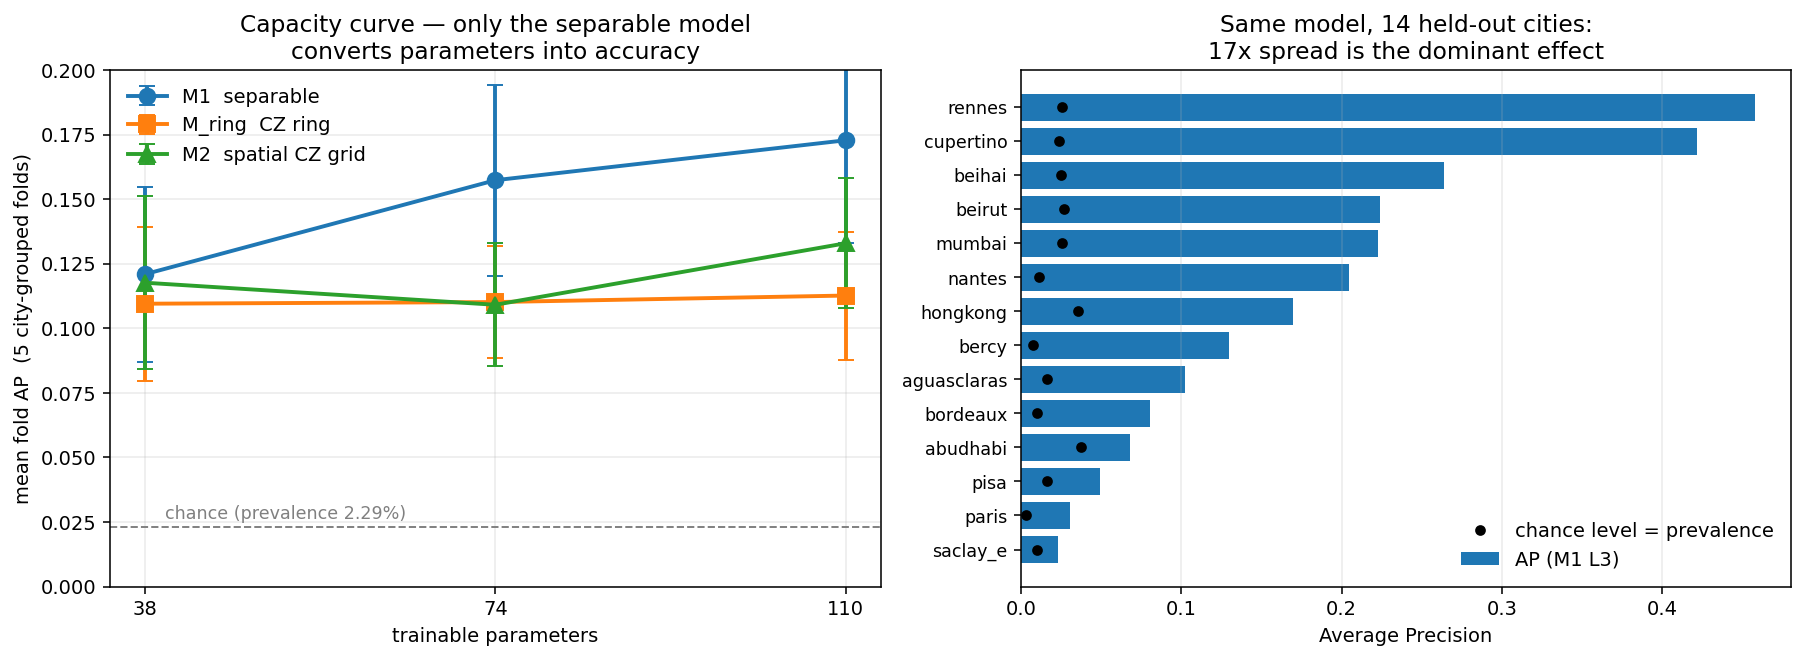
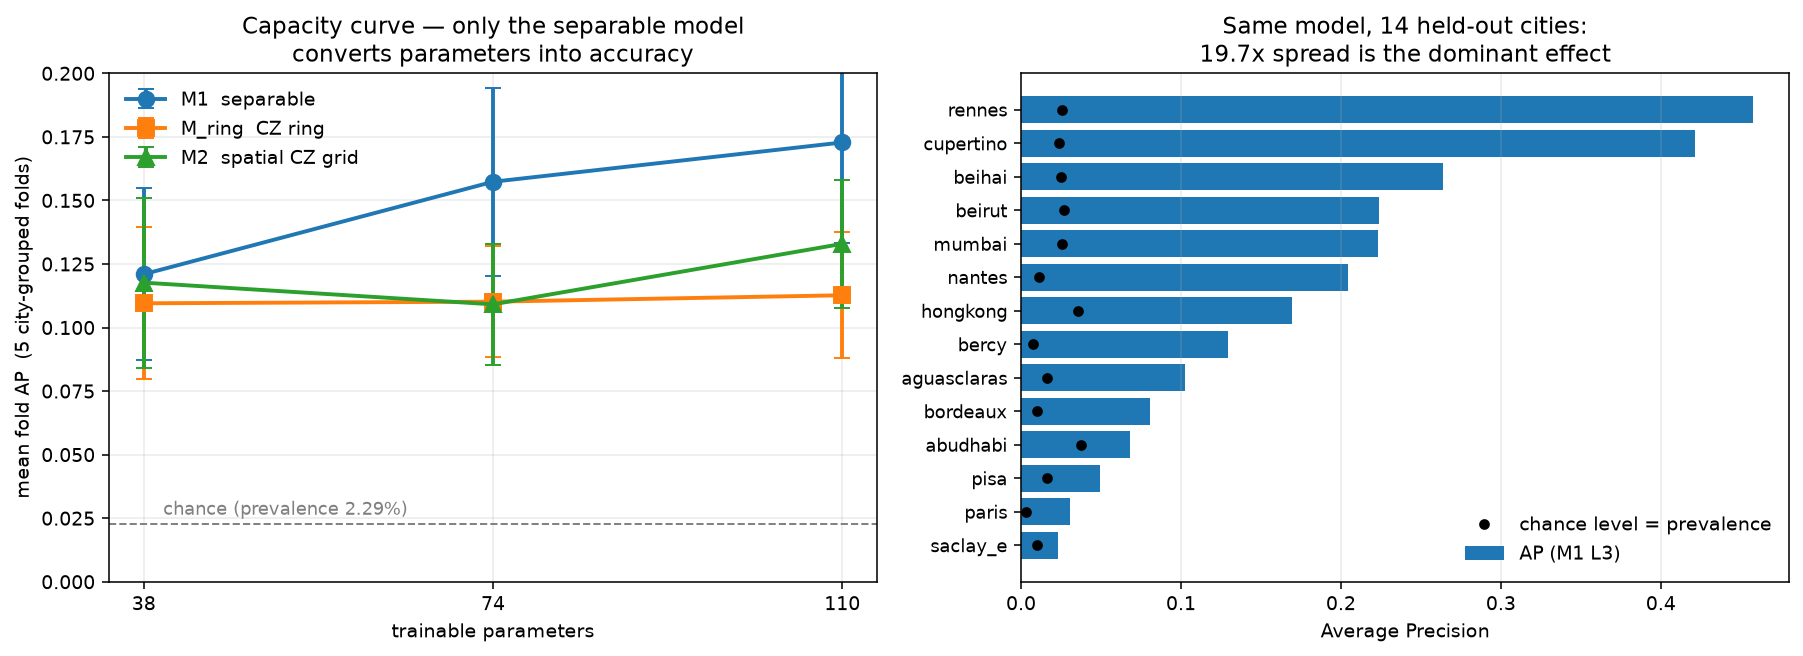
figures: 24-city split + per-city held-out model comparison
The per-city evidence existed only as tables. Two figures make it readable at a
glance, both generated from the committed fold records (no dataset, no GPU).

- results/p3_matrix/city_split.png: 14 labelled cities coloured by the fold that
  holds them out, 10 hidden-label cities greyed out with the reason no metric
  exists for them. Answers "where are the 10 cities' numbers?" in one look.
- results/p3_matrix/heldout_city_comparison.png: left panel, one row per
  held-out city with all three circuits on it; right panel, the paired per-city
  difference against M1 with mean lines and win counts. Shows both that M1 leads
  (11/14 vs M2, 14/14 vs M_ring) and that the city spread is far larger than any
  architecture gap.
- train/plot_heldout_comparison.py generates both; embedded in
  hidden_city_evaluation.md, results_heldout_city_comparison.md and
  RESULTS_SUMMARY.md, listed in the poster figure table.

Also corrects the per-city spread claim: RESULTS_SUMMARY and the p3_summary
title said 0.026 / 0.446 / "17x", which matches no cell in the committed matrix.
The reproducible values are 0.0232 (saclay_e) / 0.4575 (rennes) = 19.7x, now
read from the data by both the doc and the plot title instead of hardcoded.

diff --git a/train/plot_heldout_comparison.py b/train/plot_heldout_comparison.py
@@ -1,0 +1,197 @@
+"""
+train/plot_heldout_comparison.py — the two figures that answer "which cities are
+these numbers on, and is the model comparison fair?"
+
+  city_split.png              the 24-city split: 14 labelled cities that every
+                              metric comes from (coloured by CV fold), 10
+                              hidden-label cities that can only be predicted.
+  heldout_city_comparison.png M1 vs M2 vs M_ring on each of the 14 held-out
+                              cities, plus the paired per-city differences.
+
+Both are built from committed artifacts (`results/runs/p3_topology/*.json` and
+`data/splits.py`) — no dataset, no retraining. Numbers match
+`docs/results_heldout_city_comparison.md`, which the same fold records generate.
+
+    python train/plot_heldout_comparison.py [--depth 3] [--metric AP]
+"""
+import os, sys, json, glob, argparse, collections
+import numpy as np
+import matplotlib
+matplotlib.use("Agg")
+import matplotlib.pyplot as plt
+from matplotlib.patches import FancyBboxPatch
+
+HERE = os.path.dirname(os.path.abspath(__file__))
+ROOT = os.path.dirname(HERE)
+sys.path.insert(0, os.path.join(ROOT, "data"))
+
+from splits import TRAIN_CITIES, TEST_CITIES
+
+SWEEP = os.path.join(ROOT, "results", "runs", "p3_topology")
+OUT = os.path.join(ROOT, "results", "p3_matrix")
+# colours kept identical to plot_p3.py so the figures read as one set
+KINDS = [("m1", "M1  separable", "#1f77b4", "o"),
+         ("m2", "M2  spatial CZ grid", "#2ca02c", "^"),
+         ("mring", "M_ring  CZ ring", "#ff7f0e", "s")]
+FOLD_COLORS = ["#4c78a8", "#72b7b2", "#54a24b", "#eeca3b", "#e45756"]
+PREVALENCE = 0.0229
+
+
+def load(sweep=SWEEP):
+    """{(kind, depth): {city: metrics}} and {city: fold}."""
+    cells, fold_of = collections.defaultdict(dict), {}
+    for p in sorted(glob.glob(os.path.join(sweep, "*_fold*.json"))):
+        d = json.load(open(p))
+        for c, m in d["per_city"].items():
+            cells[(d["kind"], d["depth"])][c] = m
+            fold_of.setdefault(c, d["fold"])
+            if fold_of[c] != d["fold"]:
+                raise ValueError(f"{c}: fold assignment differs between cells — "
+                                 "the comparison would not be paired")
+    return cells, fold_of
+
+
+# --------------------------------------------------------------------------- #
+def fig_city_split(fold_of, path):
+    """Why there is no metric for 10 of the 24 cities."""
+    fig, ax = plt.subplots(figsize=(13, 4.6))
+    ax.set_xlim(0, 10.6); ax.set_ylim(-0.45, 6.2); ax.axis("off")
+
+    def chip(x, y, text, face, edge, fg="black", sub=None):
+        ax.add_patch(FancyBboxPatch((x, y), 1.75, 0.62, boxstyle="round,pad=0.02,rounding_size=0.09",
+                                    fc=face, ec=edge, lw=1.4))
+        ax.text(x + 0.875, y + (0.36 if sub else 0.31), text, ha="center",
+                va="center", fontsize=9.5, color=fg)
+        if sub:
+            ax.text(x + 0.875, y + 0.15, sub, ha="center", va="center",
+                    fontsize=7.2, color=fg, alpha=.85)
+
+    ax.text(0, 5.85, "OSCD: 24 cities", fontsize=14, fontweight="bold")
+
+    # --- labelled -----------------------------------------------------------
+    ax.text(0, 5.35, "14 labelled cities  —  every reported metric comes from here",
+            fontsize=11.5, fontweight="bold", color="#1a1a1a")
+    ax.text(0, 5.05, "5-fold city-grouped CV: each city is held out IN FULL exactly once "
+                     "and scored by a model trained without it.",
+            fontsize=9.2, color="#444")
+    for i, c in enumerate(TRAIN_CITIES):
+        r, k = divmod(i, 5)
+        f = fold_of.get(c, 0)
+        chip(0.05 + k * 1.95, 4.15 - r * 0.82, c, FOLD_COLORS[f] + "40",
+             FOLD_COLORS[f], sub=f"held out in fold {f}")
+
+    # --- hidden -------------------------------------------------------------
+    ax.text(0, 1.72, "10 hidden-label cities  —  no ground truth, so NO metric can be computed",
+            fontsize=11.5, fontweight="bold", color="#8a1a1a")
+    ax.text(0, 1.42, "Imagery only. The deliverable is one predicted {0,255} mask per city "
+                     "(results/submission/masks/).",
+            fontsize=9.2, color="#444")
+    for i, c in enumerate(TEST_CITIES):
+        r, k = divmod(i, 5)
+        chip(0.05 + k * 1.95, 0.52 - r * 0.82, c, "#dddddd", "#999999", fg="#333")
+
+    fig.savefig(path, dpi=140, bbox_inches="tight", facecolor="white")
+    plt.close(fig)
+    return path
+
+
+# --------------------------------------------------------------------------- #
+def fig_comparison(cells, fold_of, depth, metric, path):
+    """Per-city model comparison + paired differences, on held-out cities only."""
+    present = [k for k in KINDS if (k[0], depth) in cells]
+    if not present:
+        sys.exit(f"no cells at depth {depth}")
+    n_params = json.load(open(glob.glob(os.path.join(
+        SWEEP, f"{present[0][0]}_L{depth}_fold*.json"))[0]))["n_params"]
+
+    base = cells[("m1", depth)]
+    order = sorted(TRAIN_CITIES, key=lambda c: base[c][metric])   # worst at bottom
+    y = np.arange(len(order))
+
+    fig, ax = plt.subplots(1, 2, figsize=(13.6, 5.6),
+                           gridspec_kw={"width_ratios": [1.25, 1]})
+
+    # --- panel A: three circuits on the same held-out city -------------------
+    for i, c in enumerate(order):
+        vals = [cells[(k, depth)][c][metric] for k, *_ in present]
+        ax[0].plot([min(vals), max(vals)], [i, i], color="#bbbbbb", lw=1.2, zorder=1)
+    for kind, name, col, mk in present:
+        v = [cells[(kind, depth)][c][metric] for c in order]
+        ax[0].scatter(v, y, color=col, marker=mk, s=62, zorder=3, label=name,
+                      edgecolor="white", lw=.7)
+    prev = [base[c]["prevalence"] for c in order]
+    ax[0].scatter(prev, y, marker="|", color="black", s=70, zorder=4,
+                  label="chance level = city prevalence")
+    ax[0].set_yticks(y); ax[0].set_yticklabels(order, fontsize=9.5)
+    ax[0].set_xlabel(f"{metric} on the held-out city")
+    ax[0].set_title(f"Same held-out city, three circuits  ({n_params} parameters)\n"
+                    "every point is a city the model never trained on",
+                    fontsize=11.5)
+    ax[0].legend(frameon=False, fontsize=9, loc="lower right")
+    ax[0].grid(axis="x", alpha=.25)
+    ax[0].grid(axis="y", alpha=.12, ls="-")
+    ax[0].set_axisbelow(True)
+    ax[0].set_xlim(left=0)
+
+    lo, hi = base[order[0]][metric], base[order[-1]][metric]
+    ax[0].annotate(f"city spread for one model:\n{lo:.3f} … {hi:.3f}  ({hi/max(lo,1e-9):.1f}×)",
+                   xy=(hi, len(order) - 1), xytext=(hi * 0.42, len(order) - 3.4),
+                   fontsize=9, color="#333",
+                   arrowprops=dict(arrowstyle="->", color="#666", lw=1))
+
+    # --- panel B: paired differences vs M1 ----------------------------------
+    ax[1].axvline(0, color="black", lw=1.1, zorder=2)
+    lines, biggest_gap = [], 0.0
+    for kind, name, col, mk in present:
+        if kind == "m1":
+            continue
+        d = np.array([base[c][metric] - cells[(kind, depth)][c][metric] for c in order])
+        biggest_gap = max(biggest_gap, float(np.abs(d).max()))
+        ax[1].scatter(d, y, color=col, marker=mk, s=62, zorder=3,
+                      edgecolor="white", lw=.7, label=f"M1 − {name.split('  ')[0]}")
+        ax[1].axvline(d.mean(), color=col, ls="--", lw=1.2, alpha=.8, zorder=1)
+        lines.append(f"M1 − {name.split('  ')[0]}:  {int((d > 0).sum())}/{len(d)} cities, "
+                     f"mean Δ {d.mean():+.3f}")
+    ax[1].set_yticks(y); ax[1].set_yticklabels([])
+    ax[1].set_xlabel(f"paired per-city difference in {metric}   "
+                     "(right of 0 = M1 better)")
+    ax[1].set_title("Paired differences — identical folds, initialisation\n"
+                    "and patch stream, so the entangler is the only difference",
+                    fontsize=11.5)
+    ax[1].legend(frameon=False, fontsize=9, loc="lower right")
+    ax[1].grid(axis="x", alpha=.25)
+    ax[1].grid(axis="y", alpha=.12, ls="-")   # same row order as panel A
+    ax[1].set_axisbelow(True)
+    ax[1].text(0.02, 0.985, "\n".join(lines), transform=ax[1].transAxes, va="top",
+               fontsize=9.2, bbox=dict(fc="white", ec="#cccccc", boxstyle="round,pad=0.4"))
+
+    ax[1].text(0.5, -0.155, f"city spread ({hi - lo:.3f}) dwarfs every per-city "
+                            f"architecture gap (largest {biggest_gap:.3f})",
+               transform=ax[1].transAxes, ha="center", fontsize=9.2, color="#8a1a1a")
+
+    fig.suptitle("Model comparison on cities the models never saw — "
+                 "5-fold city-grouped CV over the 14 labelled cities",
+                 fontsize=13, fontweight="bold", y=1.02)
+    fig.savefig(path, dpi=140, bbox_inches="tight", facecolor="white")
+    plt.close(fig)
+    return path
+
+
+# --------------------------------------------------------------------------- #
+def main():
+    ap = argparse.ArgumentParser()
+    ap.add_argument("--depth", type=int, default=3)
+    ap.add_argument("--metric", default="AP")
+    ap.add_argument("--outdir", default=OUT)
+    a = ap.parse_args()
+
+    cells, fold_of = load()
+    os.makedirs(a.outdir, exist_ok=True)
+    p1 = fig_city_split(fold_of, os.path.join(a.outdir, "city_split.png"))
+    p2 = fig_comparison(cells, fold_of, a.depth, a.metric,
+                        os.path.join(a.outdir, "heldout_city_comparison.png"))
+    print(f"-> {p1}\n-> {p2}")
+
+
+if __name__ == "__main__":
+    main()

diff --git a/train/compare_heldout_cities.py b/train/compare_heldout_cities.py
@@ -118,6 +118,10 @@ def write_report(cells, folds, depths, metric, path):
     A("The comparison is paired — identical fold assignment, identical "
       "initialisation and identical training patch stream across models, so the "
       "circuit is the only difference and per-city differences are matched pairs.\n")
+    A("![the 24-city split](../results/p3_matrix/city_split.png)\n")
+    A("![held-out city comparison](../results/p3_matrix/heldout_city_comparison.png)\n")
+    A("Both figures come from the same fold records as the tables below "
+      "(`python train/plot_heldout_comparison.py`).\n")
     A(f"Primary metric here: **{metric}**. Chance level for AP is the city's own "
       "prevalence (~2.3 % overall), so AP values must be read against that column.\n")
 

diff --git a/train/plot_p3.py b/train/plot_p3.py
@@ -48,7 +48,8 @@ ax[1].barh(y, apv, color="#1f77b4", label="AP (M1 L3)")
 ax[1].plot(prv, y, "k.", ms=9, label="chance level = prevalence")
 ax[1].set_yticks(y); ax[1].set_yticklabels(order, fontsize=9)
 ax[1].set_xlabel("Average Precision")
-ax[1].set_title("Same model, 14 held-out cities:\n17x spread is the dominant effect")
+ax[1].set_title(f"Same model, 14 held-out cities:\n"
+                f"{max(apv) / max(min(apv), 1e-9):.1f}x spread is the dominant effect")
 ax[1].legend(frameon=False, loc="lower right"); ax[1].grid(alpha=.25, axis="x")
 
 fig.tight_layout()

diff --git a/docs/hidden_city_evaluation.md b/docs/hidden_city_evaluation.md
@@ -11,6 +11,8 @@ cannot do about it, and what each option needs.
 
 ## 1. The split, precisely
 
+![the 24-city split](../results/p3_matrix/city_split.png)
+
 | | cities | labels | role here |
 |---|---|---|---|
 | train | 14 | yes | transform fitting, training, 5-fold city-grouped CV, threshold choice |
@@ -42,12 +44,19 @@ number — the same kind of cross-city generalization test the 10 hidden cities
 would provide, with 14 held-out cities instead of 10, and with matched pairing
 across architectures (same folds, same init, same patch stream).
 
+![held-out city comparison](../results/p3_matrix/heldout_city_comparison.png)
+
+*Left: the same held-out city scored by all three circuits. Right: the paired
+per-city difference against M1 — dashed lines are the means. Every point is a
+city that model never trained on.*
+
 [`results_heldout_city_comparison.md`](results_heldout_city_comparison.md) is
 that comparison written out per city — M1 vs M2 vs M_ring, one row per held-out
-city, with paired differences and win counts. Regenerate with:
+city, with paired differences and win counts. Regenerate both with:
 
 ```bash
-python train/compare_heldout_cities.py            # no dataset, no GPU, ~1 s
+python train/compare_heldout_cities.py            # tables,  no dataset, no GPU, ~1 s
+python train/plot_heldout_comparison.py           # figures, no dataset, no GPU, ~2 s
 ```
 
 At L3 (110 params) it reports M1 ahead on macro AP 0.1748 vs 0.1358 (M2) and

diff --git a/docs/RESULTS_SUMMARY.md b/docs/RESULTS_SUMMARY.md
@@ -113,11 +113,20 @@ as a prior here.)
 
 ### (c) Which city you test on matters far more than which circuit you use
 
-Same model, 14 held-out cities: AP ranges **0.026 (saclay_e) to 0.446 (rennes)** —
-a **17× spread**, an order of magnitude larger than any architecture difference.
-This is the same cross-city difficulty the EDA found at the very start (land-cover
+![held-out city comparison](../results/p3_matrix/heldout_city_comparison.png)
+
+Same model (M1 L3), 14 held-out cities: AP ranges **0.0232 (saclay_e) to 0.4575
+(rennes)** — a **19.7× spread**, an order of magnitude larger than any
+architecture difference (largest per-city gap 0.150, mean 0.039–0.052). This is
+the same cross-city difficulty the EDA found at the very start (land-cover
 features separating urban from natural change scored 0.59 under random CV but
 0.53 — chance — under city-grouped CV).
+
+> Earlier revisions of this file quoted 0.026 / 0.446 and "17×". Those values do
+> not correspond to any cell in the committed matrix; the numbers above are read
+> straight from `results/runs/p3_topology/m1_L3_fold*.json` by
+> `train/compare_heldout_cities.py` and match
+> [`results_heldout_city_comparison.md`](results_heldout_city_comparison.md).
 
 **Practical implication:** the binding constraint is domain shift between cities,
 not the quantum circuit design.

diff --git a/README.md b/README.md
@@ -229,8 +229,12 @@ raw T1/T2 → robust per-band norm → per-image median-corrected |dB|
   10 test cities have no ground truth and are predict-only. Per-city,
   model-vs-model tables are in
   [`docs/results_heldout_city_comparison.md`](docs/results_heldout_city_comparison.md)
-  (regenerate: `python train/compare_heldout_cities.py`); scoring the 10 hidden
-  cities if their labels are released is `train/score_hidden_cities.py`.
+  (regenerate: `python train/compare_heldout_cities.py` for the tables,
+  `python train/plot_heldout_comparison.py` for
+  [`city_split.png`](results/p3_matrix/city_split.png) and
+  [`heldout_city_comparison.png`](results/p3_matrix/heldout_city_comparison.png));
+  scoring the 10 hidden cities if their labels are released is
+  `train/score_hidden_cities.py`.
 - **Model ladder** ([`docs/model_ladder.md`](docs/model_ladder.md)): M0 pixel
   baseline → M1/M2/M3 all 38-param (one factor each) → M4 re-uploading, with
   parameter-matched classical twins and the ablation matrix. Main model M3 (9-to-9

diff --git a/docs/results_heldout_city_comparison.md b/docs/results_heldout_city_comparison.md
@@ -8,6 +8,12 @@ The 10 OSCD **test** cities have no ground truth (`data/splits.py` — `TEST_CIT
 
 The comparison is paired — identical fold assignment, identical initialisation and identical training patch stream across models, so the circuit is the only difference and per-city differences are matched pairs.
 
+![the 24-city split](../results/p3_matrix/city_split.png)
+
+![held-out city comparison](../results/p3_matrix/heldout_city_comparison.png)
+
+Both figures come from the same fold records as the tables below (`python train/plot_heldout_comparison.py`).
+
 Primary metric here: **AP**. Chance level for AP is the city's own prevalence (~2.3 % overall), so AP values must be read against that column.
 
 

diff --git a/docs/QML_POSTER_README.md b/docs/QML_POSTER_README.md
@@ -458,6 +458,8 @@ milano 0.55, chongqing 2.09 (%).
 | file | content |
 |---|---|
 | `results/p3_matrix/p3_summary.png` | capacity curves + per-city spread (main results figure) |
+| `results/p3_matrix/city_split.png` | the 24-city split — which 14 every metric comes from, and why the 10 have none |
+| `results/p3_matrix/heldout_city_comparison.png` | M1 vs M2 vs M_ring on each held-out city + paired differences (evidence for Finding 3) |
 | `results/circuits/circuit_m1.png` | M1 circuit, barrier-separated stages |
 | `results/circuits/circuit_mring.png` | M_ring circuit |
 | `results/circuits/circuit_m2.png` | M2 circuit |
